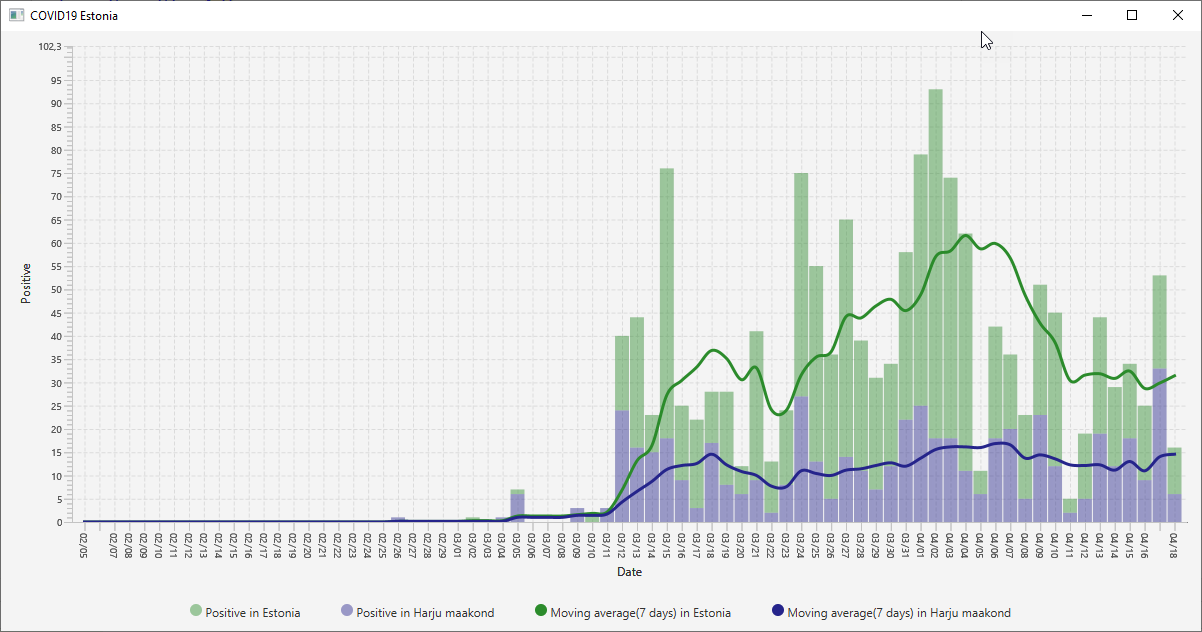
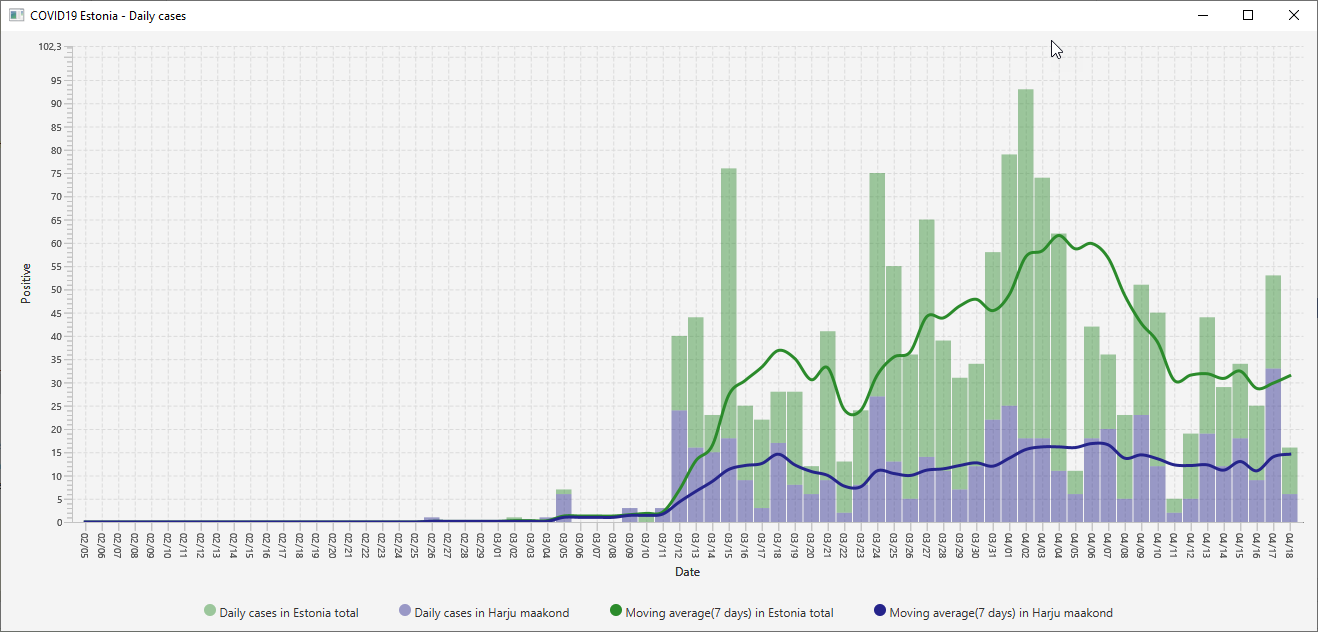
Text corrections

diff --git a/src/main/java/Main.java b/src/main/java/Main.java
@@ -10,7 +10,6 @@ import javafx.geometry.Orientation;
 import javafx.scene.Node;
 import javafx.scene.Scene;
 import javafx.scene.chart.CategoryAxis;
-import javafx.scene.chart.LineChart;
 import javafx.scene.chart.NumberAxis;
 import javafx.scene.chart.StackedBarChart;
 import javafx.scene.chart.XYChart;
@@ -51,7 +50,7 @@ public class Main extends Application {
     StatisticsByDate positiveInEstonia = statistics.getPositiveByDays();
     StatisticsByDate positiveInHarjuCounty = statistics.getPositiveByDays("Harju maakond");
     StatisticsByDate positiveExcludeHarjuCounty = statistics.getPositiveByDaysExclude("Harju maakond");
-    stage.setTitle("COVID19 Estonia");
+    stage.setTitle("COVID19 Estonia - Daily cases");
 
     double max = positiveInEstonia.getMaxValue().doubleValue() * 1.10;
     final StackedBarChart<String, Number> barChart = new StackedBarChart<>(createXAxis(), createYAxis(max));
@@ -65,10 +64,10 @@ public class Main extends Application {
     lineChart.setLegendVisible(false);
     lineChart.setAnimated(false);
 
-    barChart.getData().add(createSeries("Positive in Harju maakond", positiveInHarjuCounty));
-    barChart.getData().add(createSeries("Positive in Estonia", positiveExcludeHarjuCounty));
+    barChart.getData().add(createSeries("Daily cases in Harju maakond", positiveInHarjuCounty));
+    barChart.getData().add(createSeries("Daily case in Estonia total", positiveExcludeHarjuCounty));
 
-    lineChart.getData().add(createSeries("Average in Estonia", MovingAverage.getMovingAverage(positiveInEstonia, 7)));
+    lineChart.getData().add(createSeries("Average in Estonia total", MovingAverage.getMovingAverage(positiveInEstonia, 7)));
     lineChart.getData().add(createSeries("Average in Harju maakond", MovingAverage.getMovingAverage(positiveInHarjuCounty, 7)));
 
     StackPane chartsPane = new StackPane();
@@ -79,9 +78,9 @@ public class Main extends Application {
     root.setBottom(legendPane);
     legendPane.getStyleClass().add("legend");
     legendPane.getChildren().addAll(
-      getLegendItem(" Positive in Estonia", "positive-in-estonia"),
-      getLegendItem(" Positive in Harju maakond", "positive-in-harju"),
-      getLegendItem(" Moving average(7 days) in Estonia", "average-in-estonia"),
+      getLegendItem(" Daily cases in Estonia total", "positive-in-estonia"),
+      getLegendItem(" Daily cases in Harju maakond", "positive-in-harju"),
+      getLegendItem(" Moving average(7 days) in Estonia total", "average-in-estonia"),
       getLegendItem(" Moving average(7 days) in Harju maakond", "average-in-harju")
     );
 
